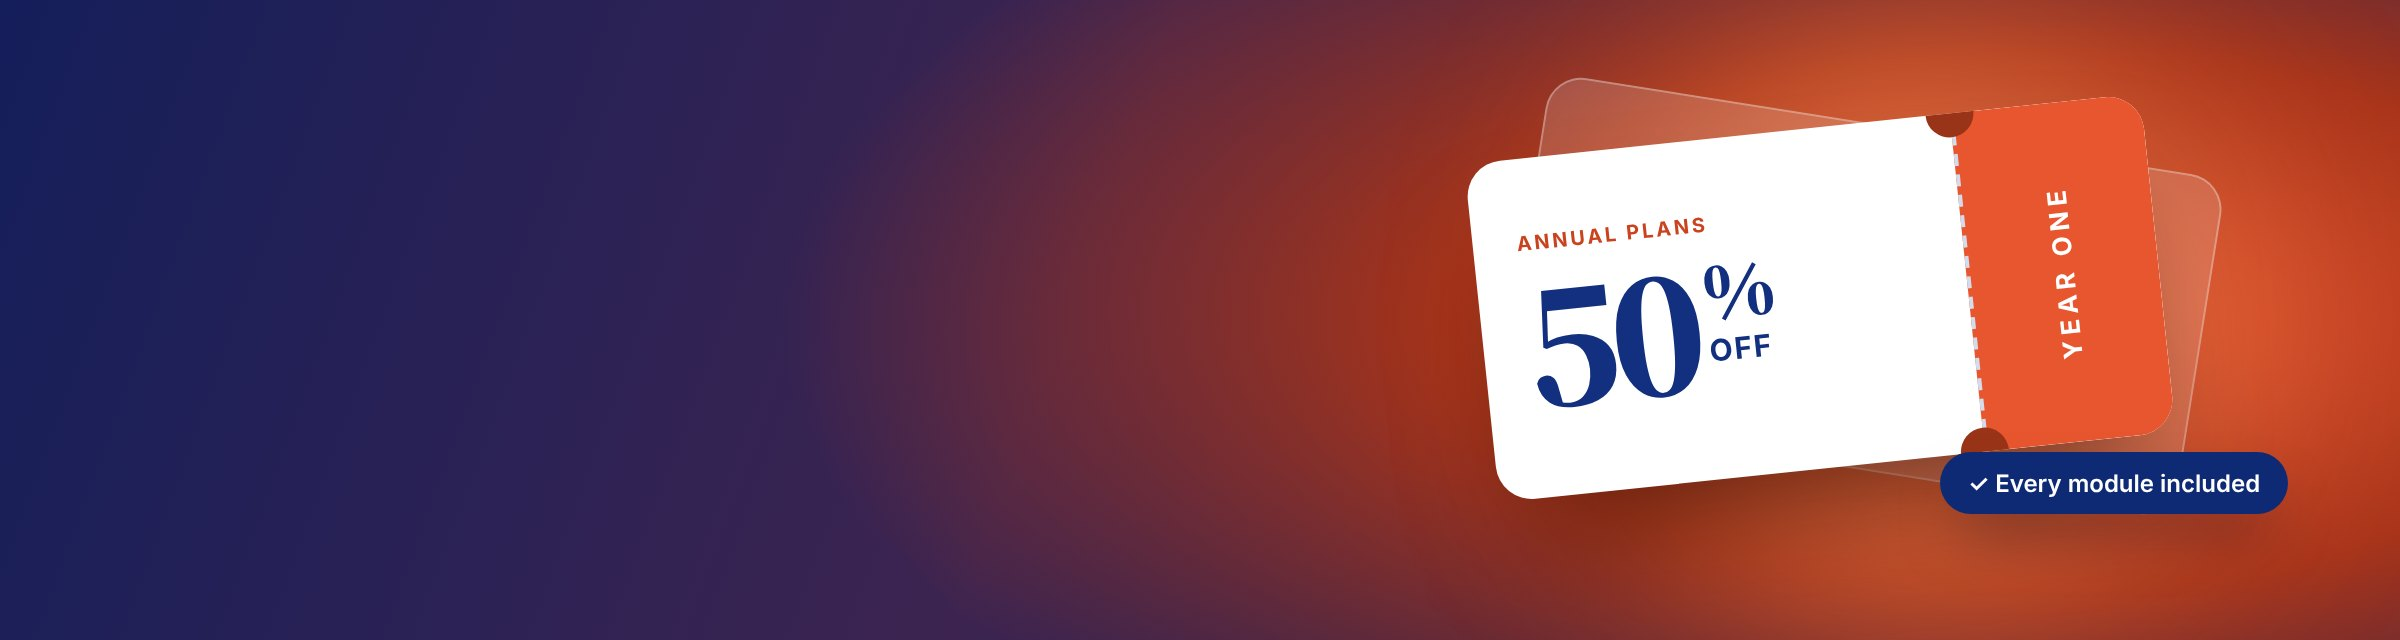
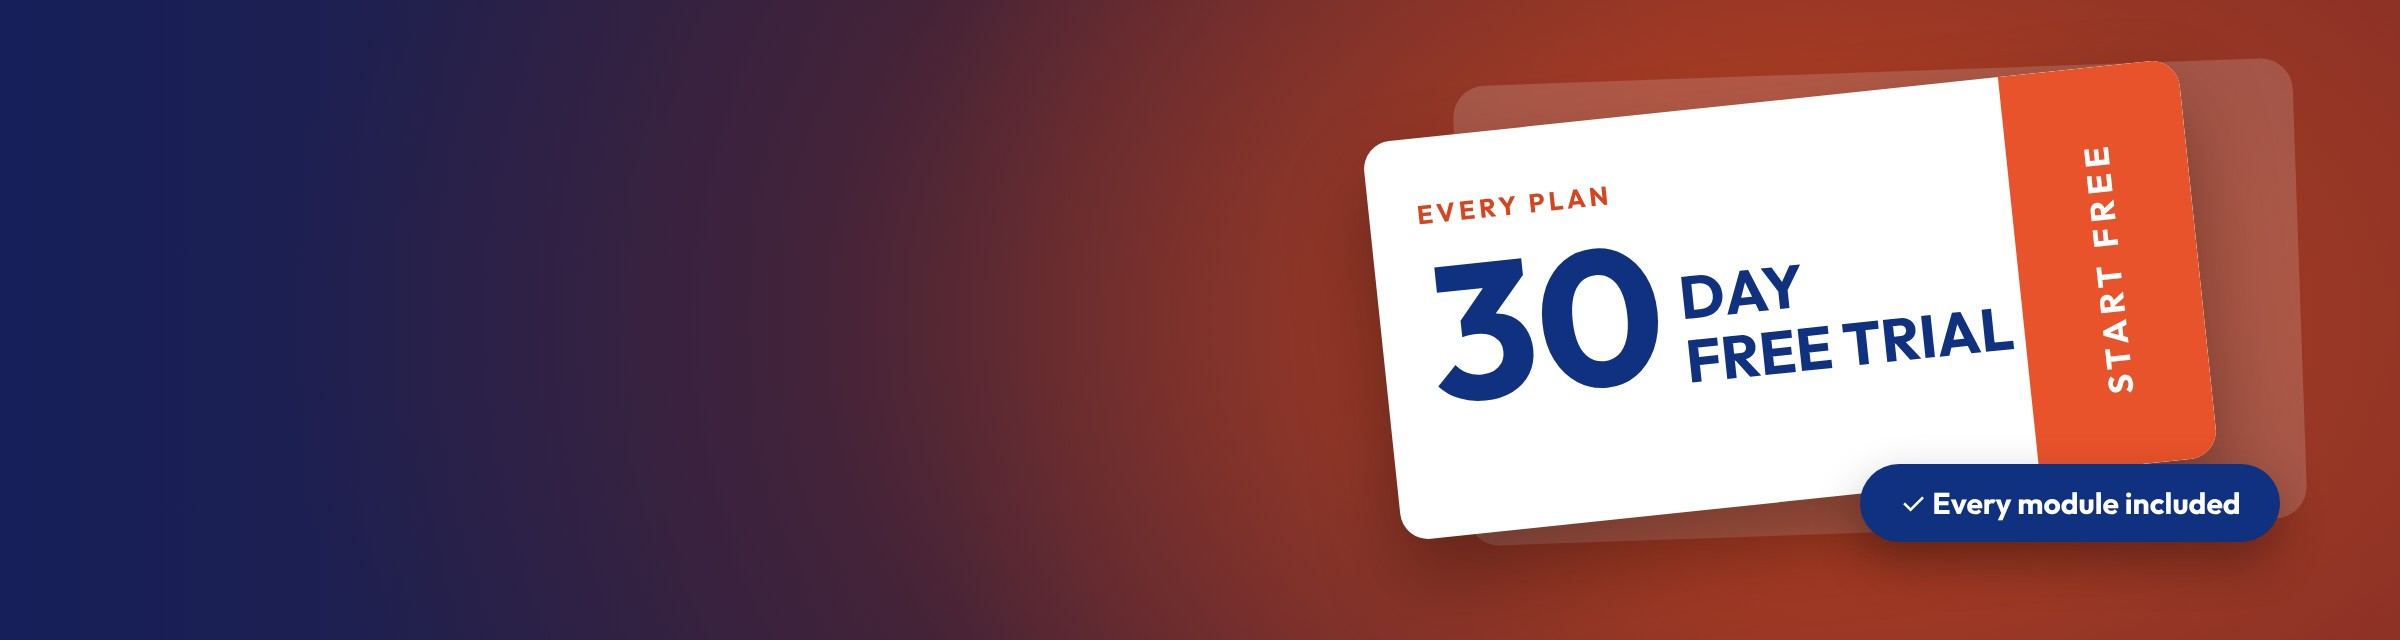
Free trial is 30 days: fix the site and the slide; replace the ended 50% off picture with a 30-day trial ticket
Claude-Session: https://claude.ai/code/session_01UzKvNyuaBsm74343iuEhzv

diff --git a/src/pages/Pricing.tsx b/src/pages/Pricing.tsx
@@ -23,7 +23,7 @@ const FAQS = [
   { q: 'Do all plans include every module?', a: 'Yes. Every Xion ERP plan — Solo through Enterprise — includes the full platform: accounting, sales, CRM, inventory, purchase, manufacturing, projects, assets, reporting and GCC e-invoicing. Plans differ only by the number of user seats.' },
   { q: 'Is Xion ERP really Fawtara-ready?', a: 'Xion ERP generates e-invoices in UBL 2.1 / Peppol BIS 3.0 format, aligned with Oman\u2019s Fawtara e-invoicing requirements ahead of the OTA phased rollout. See our Compliance page for the full timeline.' },
   { q: 'Can I switch between monthly and annual billing?', a: 'Yes, you can switch billing frequency at any time from your account settings. Annual billing gives you 14 months for the price of 12.' },
-  { q: 'What happens after my 14-day trial?', a: 'You can pick any plan and continue seamlessly, or your workspace pauses (your data is kept safely) until you\u2019re ready to subscribe. No credit card is required to start the trial.' },
+  { q: 'What happens after my 30-day trial?', a: 'You can pick any plan and continue seamlessly, or your workspace pauses (your data is kept safely) until you\u2019re ready to subscribe. No credit card is required to start the trial.' },
   { q: 'Do you support multiple currencies?', a: 'Yes. Xion ERP supports OMR (to 3 decimal places), USD, LKR and other regional currencies, with real-time conversion for multi-entity and cross-border businesses.' },
 ];
 
@@ -41,7 +41,7 @@ export default function Pricing() {
         <div className="wrap">
           <span className="eyebrow"><span className="dot" />Pricing</span>
           <h1 className="page-h">Simple plans that grow with you</h1>
-          <p className="page-sub">Start free for 14 days. Every plan includes the full platform &mdash; you only choose your team size. No hidden fees, cancel anytime.</p>
+          <p className="page-sub">Start free for 30 days. Every plan includes the full platform &mdash; you only choose your team size. No hidden fees, cancel anytime.</p>
         </div>
       </section>
 
@@ -101,7 +101,7 @@ export default function Pricing() {
               <div className="seat-tier-for">For larger teams &amp; multi-entity groups needing custom onboarding.</div>
             </div>
           </div>
-          <p className="pricing-foot">All plans include <strong>every module</strong>, <strong>GCC e-invoicing compliance</strong>, IFRS-standard financials, and a <strong>14-day free trial</strong> &mdash; no credit card. {cur === 'lkr' && <strong>Sri Lanka pricing includes a regional rate.</strong>}</p>
+          <p className="pricing-foot">All plans include <strong>every module</strong>, <strong>GCC e-invoicing compliance</strong>, IFRS-standard financials, and a <strong>30-day free trial</strong> &mdash; no credit card. {cur === 'lkr' && <strong>Sri Lanka pricing includes a regional rate.</strong>}</p>
         </div>
       </section>
 
@@ -151,7 +151,7 @@ export default function Pricing() {
         <div className="wrap">
           <div className="final-card">
             <h2>{PROMO.active ? 'Lock in 50% off before it ends' : 'Start your free trial'}</h2>
-            <p>{PROMO.active ? 'Start your 14-day free trial today, then choose any annual plan to secure half price for your first year.' : 'Start your 14-day free trial today, then choose the plan that fits your team.'}</p>
+            <p>{PROMO.active ? 'Start your 30-day free trial today, then choose any annual plan to secure half price for your first year.' : 'Start your 30-day free trial today, then choose the plan that fits your team.'}</p>
             <a className="btn btn-white btn-lg" href={APP_SIGNUP_URL} onClick={() => trackClick('pricing_final_cta', 'Start your free trial (final CTA)')}>Start your free trial</a>
             <div className="hero-note"><Check />No credit card &middot; Cancel anytime</div>
           </div>

diff --git a/src/data/academy-partner.ts b/src/data/academy-partner.ts
@@ -36,14 +36,14 @@ export const PARTNER_STAGES: Course[] = [
         blocks: [
           { t: 'p', text: 'Plans differ by the number of users, not by what the customer may use. There are five: Solo (1 user), Team (3), Business (5), Growth (10) and Enterprise (15). Each is billed monthly or annually; annual gives 14 months for the price of 12. Current prices, in US dollars, Omani rials, Sri Lankan rupees and Qatari riyals, are on xionerp.com/pricing.' },
           { t: 'path', text: 'xionerp.com/pricing' },
-          { t: 'p', text: 'Every company starts with a 14-day free trial, with no credit card. Reminders go out as the end comes near. When the trial ends without a plan, the workspace pauses and the data is kept until they subscribe.' },
+          { t: 'p', text: 'Every company starts with a 30-day free trial, with no credit card. Reminders go out as the end comes near. When the trial ends without a plan, the workspace pauses and the data is kept until they subscribe.' },
           { t: 'ul', items: [
             'A seat is a person who signs in. Salesmen who are only picked on documents can be added without sign-in, and take no seat.',
             'A person who has left is switched off, which frees their seat for someone else.',
           ] },
           { t: 'tip', text: 'Never quote a price from memory. Open the pricing page with the customer, in their currency, so the figure is today\'s.' },
         ],
-        remember: ['Five plans by number of users; annual is 14 months for 12.', '14-day trial, no card; the workspace pauses, data kept, if no plan follows.'],
+        remember: ['Five plans by number of users; annual is 14 months for 12.', '30-day trial, no card; the workspace pauses, data kept, if no plan follows.'],
       },
       {
         id: 'discovery', title: 'The discovery call', minutes: 5,

diff --git a/src/pages/Home.tsx b/src/pages/Home.tsx
@@ -35,7 +35,7 @@ export default function Home() {
             <a className="btn btn-primary btn-lg" href={APP_SIGNUP_URL} onClick={() => trackClick('hero_start_trial', 'Start free trial (hero)')}>Start free trial</a>
             <Link className="btn btn-ghost btn-lg" to="/pricing" onClick={() => trackClick('hero_see_pricing', 'See pricing')}>See pricing</Link>
           </div>
-          <div className="hero-note"><Check />14-day free trial &middot; No credit card required</div>
+          <div className="hero-note"><Check />30-day free trial &middot; No credit card required</div>
           <div className="hero-fawtara">
             <span className="ff-badge"><Check />Fawtara-ready</span>
             Built for Oman e-invoicing (UBL 2.1) ahead of the OTA rollout
@@ -137,7 +137,7 @@ export default function Home() {
             <div className="row"><span className="lbl">Decimal precision (OMR)</span><span className="big">3</span></div>
             <div className="row"><span className="lbl">Core business modules</span><span className="big">10+</span></div>
             <div className="row"><span className="lbl">Setup to first invoice</span><span className="big">1 day</span></div>
-            <div className="row"><span className="lbl">Free trial</span><span className="big">14 days</span></div>
+            <div className="row"><span className="lbl">Free trial</span><span className="big">30 days</span></div>
           </div>
         </div>
       </section>

diff --git a/src/pages/About.tsx b/src/pages/About.tsx
@@ -93,7 +93,7 @@ export default function About() {
             <h2>Come see the platform for yourself</h2>
             <p>Start a free trial and run your own numbers through Xion ERP — no credit card, no sales call required to get started.</p>
             <a className="btn btn-white btn-lg" href={APP_SIGNUP_URL} onClick={() => trackClick('about_final_cta', 'Start your free trial (final CTA)')}>Start your free trial</a>
-            <div className="hero-note"><Check />14-day free trial &middot; Cancel anytime</div>
+            <div className="hero-note"><Check />30-day free trial &middot; Cancel anytime</div>
           </div>
         </div>
       </section>

diff --git a/src/data/academy-intros.ts b/src/data/academy-intros.ts
@@ -116,7 +116,7 @@ export const INTROS: Record<string, Intro> = {
     audience: 'Partner sales consultants, account managers and pre-sales staff.',
     objectives: [
       'Qualify a prospect against what XionERP covers, and say plainly when it does not fit.',
-      'Explain the plans, seats, yearly billing and the 14-day free trial.',
+      'Explain the plans, seats, yearly billing and the 30-day free trial.',
       'Run a discovery call that finds the prospect\'s real pains.',
       'Give a demo for their kind of business and answer the usual objections.',
       'Move a prospect from demo to trial to a signed plan.',

diff --git a/src/pages/Solution.tsx b/src/pages/Solution.tsx
@@ -96,7 +96,7 @@ export default function Solution() {
         <div className="wrap">
           <div className="final-card">
             <h2>See it on your own numbers</h2>
-            <p>Start a 14-day free trial and run your own data through XionERP.</p>
+            <p>Start a 30-day free trial and run your own data through XionERP.</p>
             <a className="btn btn-white btn-lg" href={APP_SIGNUP_URL} onClick={() => trackClick('solution_final_cta', s.slug)}>Start your free trial</a>
             <div className="hero-note"><Check />No credit card &middot; Cancel anytime</div>
           </div>

diff --git a/src/data/banners.ts b/src/data/banners.ts
@@ -41,7 +41,7 @@ export const BANNERS: Banner[] = [
   {
     eyebrow: 'New prices',
     title: 'Lower prices on every plan.',
-    text: 'Every module included — you only pick your team size. Start with a 14-day free trial.',
+    text: 'Every module included — you only pick your team size. Start with a 30-day free trial.',
     cta: { label: 'See pricing', to: '/pricing' },
     icon: MODULE_ICONS['Invoicing'],
     image: '/banner-2.jpg',
